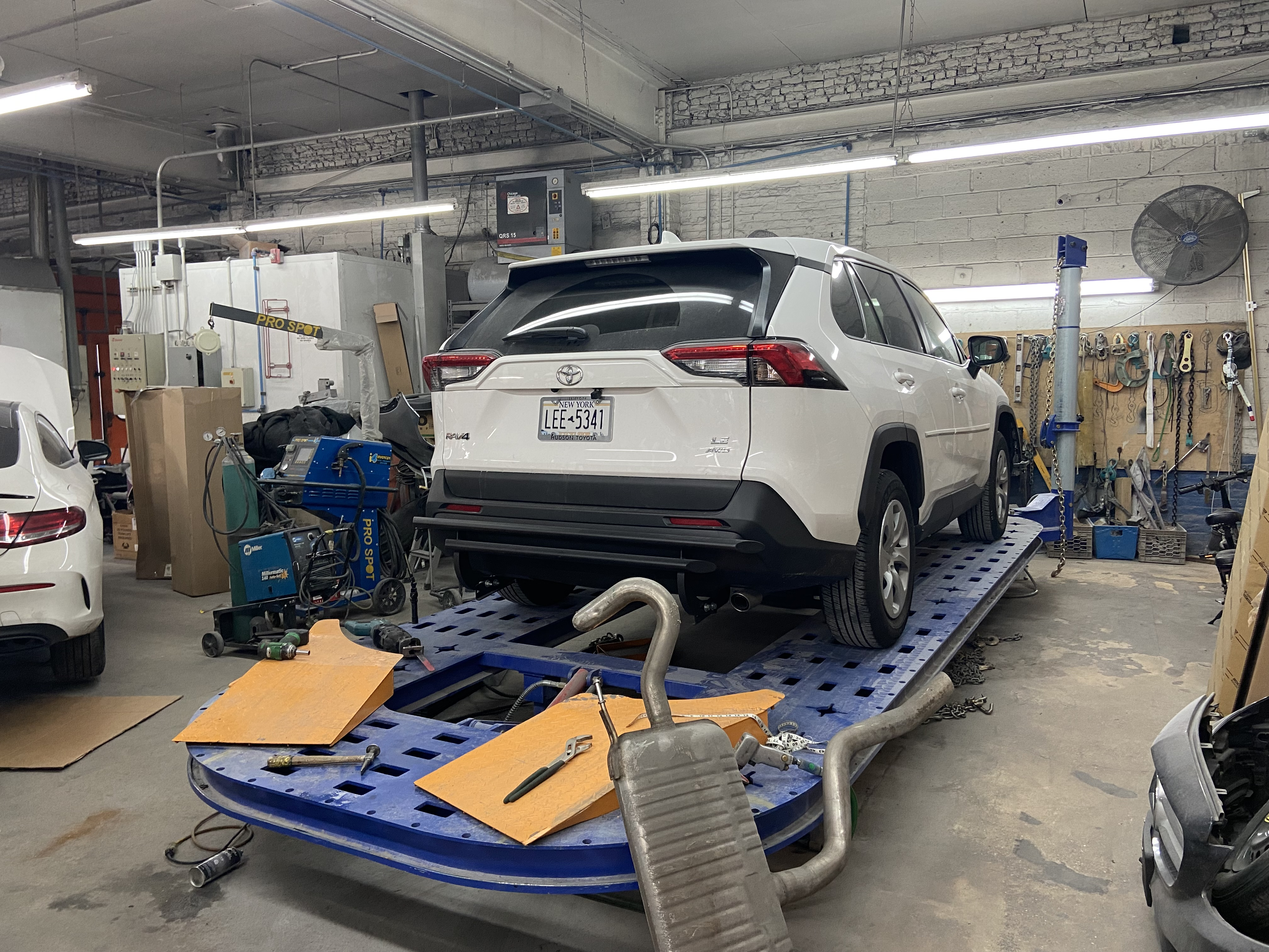
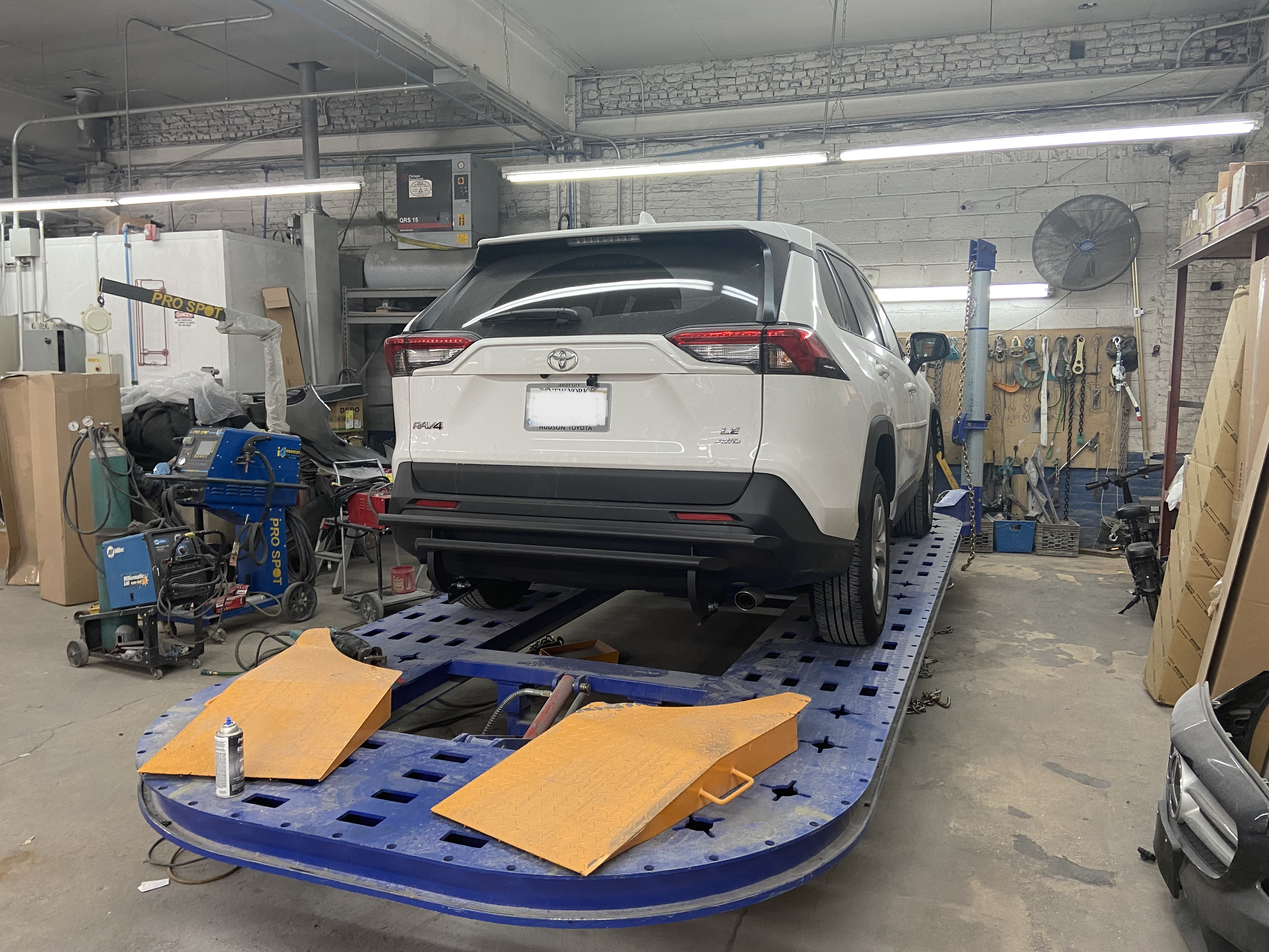
add facility image (#16)

diff --git a/src/components/Home.js b/src/components/Home.js
@@ -8,7 +8,7 @@ import { useState } from "react";
 import Box from "@mui/material/Box";
 import Typography from "@mui/material/Typography";
 import RepairProcess from "./homePageComponents/RepairProcess";
-import useWindowDimensions from "./useWindowDimensions";
+// import useWindowDimensions from "./useWindowDimensions";
 import LocalPhoneOutlinedIcon from "@mui/icons-material/LocalPhoneOutlined";
 
 const style = {
@@ -23,7 +23,7 @@ const style = {
 };
 
 export default function Home() {
-  const { width } = useWindowDimensions();
+  // const { width } = useWindowDimensions();
   const [accidentModalOpen, setAccidentModalOpen] = useState(false);
   const [repairModalOpen, setRepairModalOpen] = useState(false);
   const handleAccidentModalOpen = () => setAccidentModalOpen(true);

diff --git a/src/components/modules/Facility.js b/src/components/modules/Facility.js
@@ -4,9 +4,10 @@ import facility1 from "../../assets/facility1.jpg";
 import facility2 from "../../assets/facility2.jpg";
 import facility3 from "../../assets/facility3.jpg";
 import facility4 from "../../assets/facility4.jpg";
+import facility5 from "../../assets/facility5.jpg";
 import { Grid } from "@mui/material";
 
-const facilities = [facility3, facility1, facility2];
+const facilities = [facility3, facility1, facility2, facility5];
 
 export default function Facility() {
   return (

diff --git a/src/components/modules/AboutUs.js b/src/components/modules/AboutUs.js
@@ -1,5 +1,5 @@
 import { useEffect } from "react";
-import tnsShop from "../../assets/rain.jpg";
+import tnsShop from "../../assets/tnsShop.png";
 import Header from "./Header";
 import { Grid, Typography } from "@mui/material";
 import CheckIcon from "@mui/icons-material/Check";

diff --git a/src/components/Modules.js b/src/components/Modules.js
@@ -1,3 +1,4 @@
+/* eslint-disable jsx-a11y/anchor-is-valid */
 import {
   Button,
   Dialog,
